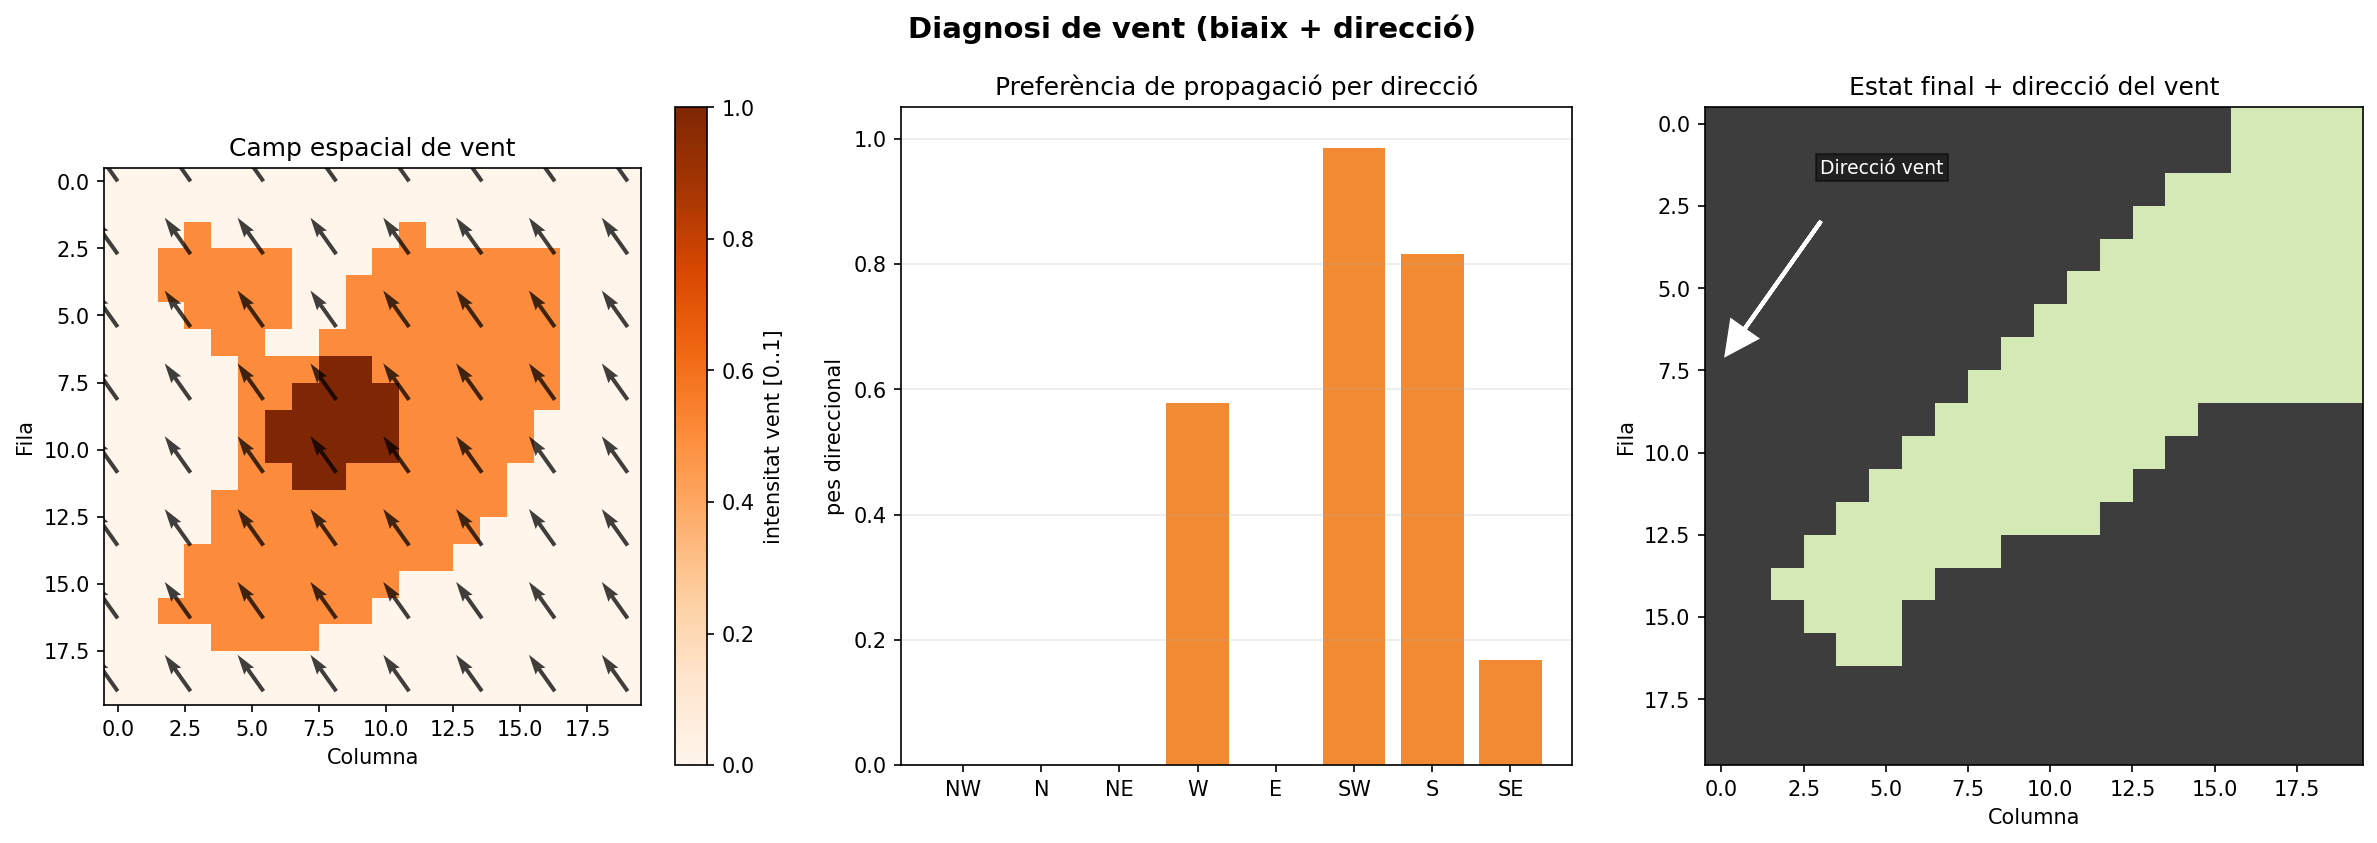
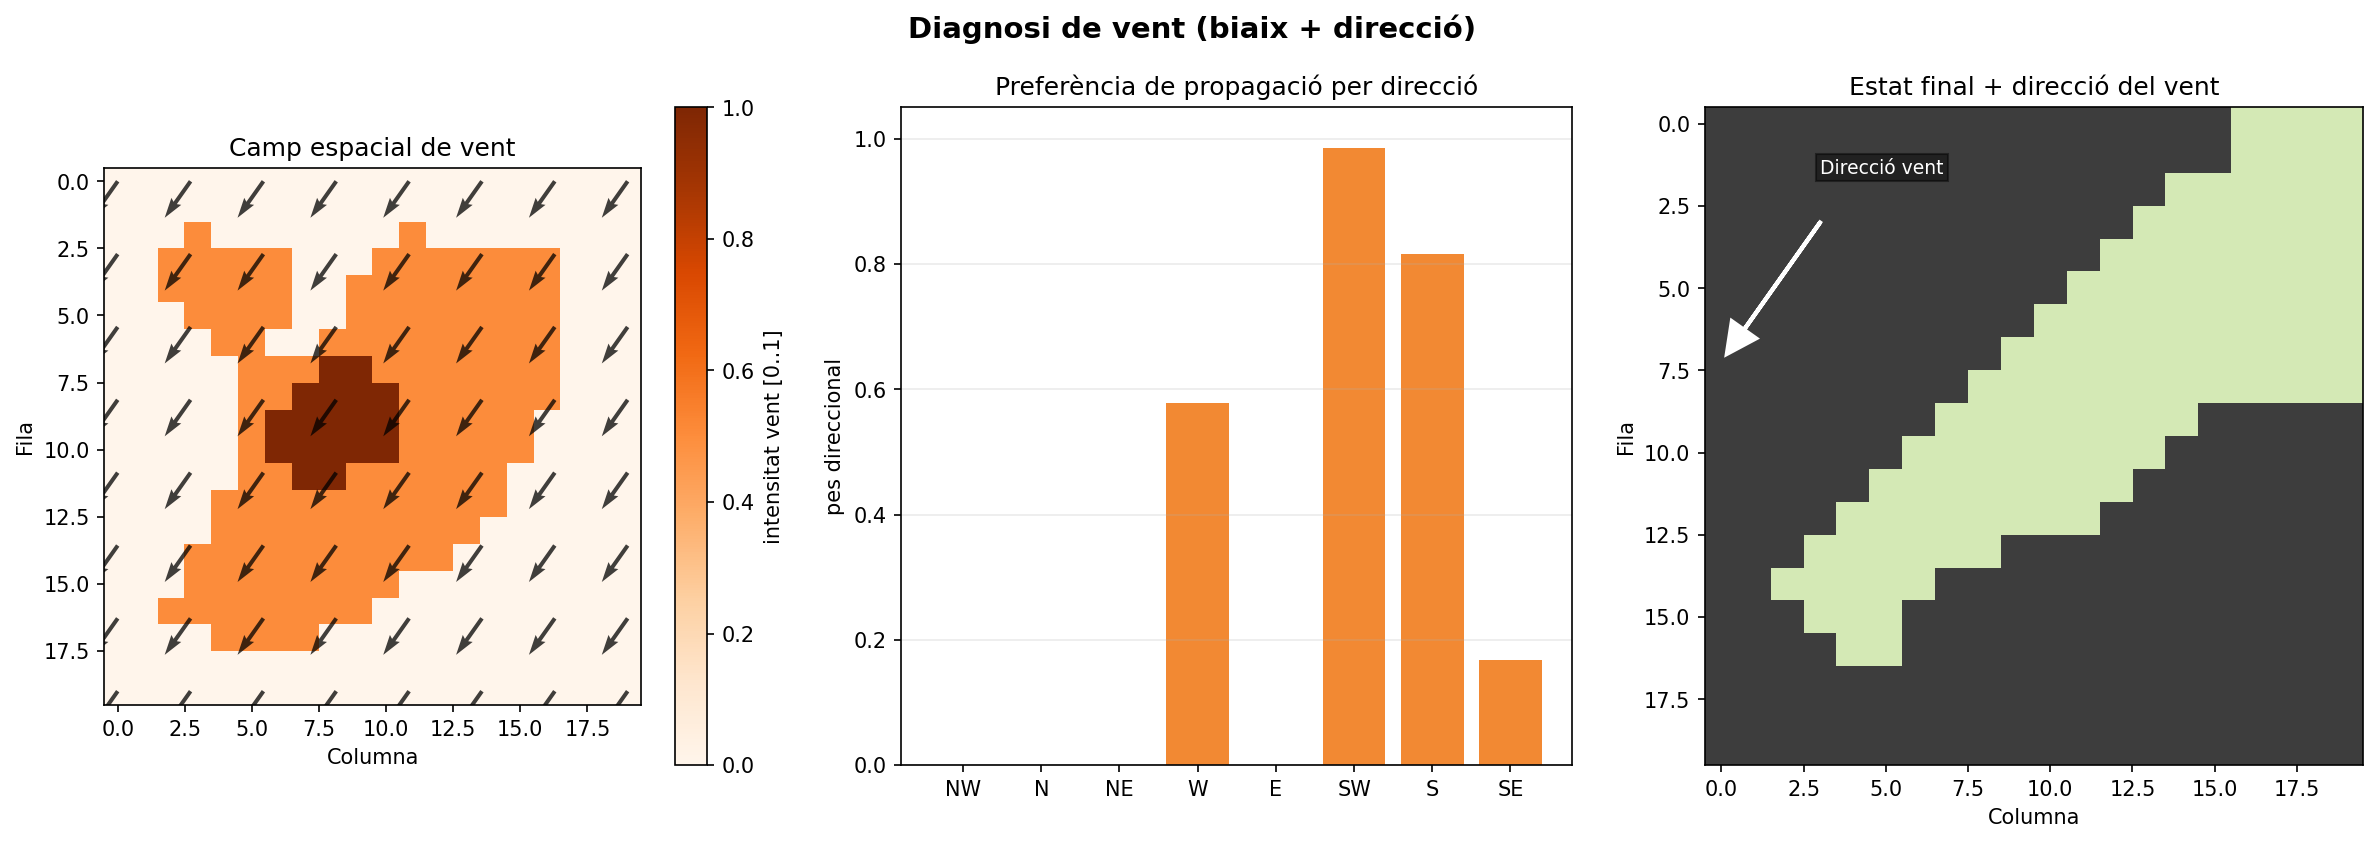
Codi Arreglat

diff --git a/PART 2/Original/codi.py b/PART 2/Original/codi.py
@@ -126,8 +126,8 @@ def coarse_grain(history: np.ndarray, k: int = 2) -> np.ndarray:
 # ─────────────────────────────────────────────
 
 def majority(bloc: list) -> int:
-    """Regla de majoria: retorna 1 si la meitat o més de les cel·les valen 1."""
-    return 1 if sum(bloc) >= len(bloc) / 2 else 0
+    """Regla de majoria: retorna 1 si més de la meitat de les cel·les valen 1."""
+    return 1 if sum(bloc) > len(bloc) / 2 else 0
 
 
 def build_coarse_rule(rule_number: int, k: int = 2) -> dict:
@@ -230,18 +230,13 @@ def plot_single_rule(rule_number: int, width: int = 101, generations: int = 50):
 
 def plot_coarse_comparison(rule_number: int, width: int = 100, generations: int = 50, k: int = 2):
     """
-    Compara l'evolució original amb la versió de gra gruixut (posteriori)
-    i la versió obtinguda directament per la regla formal.
+    Compara l'evolució original amb la versió de gra gruixut K=2.
     """
-    # 1. Original
     history = run_automaton(rule_number, width, generations)
-    # 2. Gra gruixut a posteriori
     coarse  = coarse_grain(history, k)
-    # 3. Gra gruixut amb regla formal
-    formal_coarse = run_coarse_automaton(rule_number, width, generations, k)
     
-    fig, axes = plt.subplots(1, 3, figsize=(18, 6))
-    fig.suptitle(f'Regla {rule_number}: Original vs Gruixut Posterior vs Formal (K={k})', 
+    fig, axes = plt.subplots(1, 2, figsize=(14, 6))
+    fig.suptitle(f'Regla {rule_number}: Original vs Gra Gruixut (K={k})', 
                  fontsize=14, fontweight='bold')
     
     axes[0].imshow(history, cmap='binary', interpolation='nearest', aspect='auto')
@@ -250,19 +245,14 @@ def plot_coarse_comparison(rule_number: int, width: int = 100, generations: int 
     axes[0].set_ylabel('Generació')
     
     axes[1].imshow(coarse, cmap='binary', interpolation='nearest', aspect='auto')
-    axes[1].set_title(f'Gra Gruixut a posterior ({width//k} cel·les)')
-    axes[1].set_xlabel('Supracel·la')
+    axes[1].set_title(f'Gra Gruixut K={k} ({width//k} cel·les)')
+    axes[1].set_xlabel('Cel·la (agrupada)')
     axes[1].set_ylabel('Generació')
     
-    axes[2].imshow(formal_coarse, cmap='binary', interpolation='nearest', aspect='auto')
-    axes[2].set_title(f'Regla Formal directa ({width//k} cel·les)')
-    axes[2].set_xlabel('Supracel·la')
-    axes[2].set_ylabel('Generació')
-    
     plt.tight_layout()
-    plt.savefig(os.path.join(OUTPUT_DIR, f'rule_{rule_number}_coarse_full_k{k}.png'), dpi=150, bbox_inches='tight')
+    plt.savefig(os.path.join(OUTPUT_DIR, f'rule_{rule_number}_coarse_k{k}.png'), dpi=150, bbox_inches='tight')
     plt.show()
-    print(f"[✓] Comparació completa guardada: rule_{rule_number}_coarse_full_k{k}.png")
+    print(f"[✓] Comparació guardada: rule_{rule_number}_coarse_k{k}.png")
 
 
 def plot_multiple_rules(rules: list, width: int = 101, generations: int = 40):
@@ -368,7 +358,7 @@ if __name__ == '__main__':
     print("    - rule_30.png")
     print("    - rule_110.png")
     print("    - rule_90.png")
-    print("    - rule_30_coarse_full_k2.png")
-    print("    - rule_90_coarse_full_k2.png")
+    print("    - rule_30_coarse_k2.png")
+    print("    - rule_90_coarse_k2.png")
     print("    - multiple_rules.png")
     print("    - combined_rules_30+90.png")

diff --git a/PART 2/codi.py b/PART 2/codi.py
@@ -126,8 +126,8 @@ def coarse_grain(history: np.ndarray, k: int = 2) -> np.ndarray:
 # ─────────────────────────────────────────────
 
 def majority(bloc: list) -> int:
-    """Regla de majoria: retorna 1 si més de la meitat de les cel·les valen 1."""
-    return 1 if sum(bloc) > len(bloc) / 2 else 0
+    """Regla de majoria: retorna 1 si la meitat o més de les cel·les valen 1."""
+    return 1 if sum(bloc) >= len(bloc) / 2 else 0
 
 
 def build_coarse_rule(rule_number: int, k: int = 2) -> dict:
@@ -230,13 +230,18 @@ def plot_single_rule(rule_number: int, width: int = 101, generations: int = 50):
 
 def plot_coarse_comparison(rule_number: int, width: int = 100, generations: int = 50, k: int = 2):
     """
-    Compara l'evolució original amb la versió de gra gruixut K=2.
+    Compara l'evolució original amb la versió de gra gruixut (posteriori)
+    i la versió obtinguda directament per la regla formal.
     """
+    # 1. Original
     history = run_automaton(rule_number, width, generations)
+    # 2. Gra gruixut a posteriori
     coarse  = coarse_grain(history, k)
+    # 3. Gra gruixut amb regla formal
+    formal_coarse = run_coarse_automaton(rule_number, width, generations, k)
     
-    fig, axes = plt.subplots(1, 2, figsize=(14, 6))
-    fig.suptitle(f'Regla {rule_number}: Original vs Gra Gruixut (K={k})', 
+    fig, axes = plt.subplots(1, 3, figsize=(18, 6))
+    fig.suptitle(f'Regla {rule_number}: Original vs Gruixut Posterior vs Formal (K={k})', 
                  fontsize=14, fontweight='bold')
     
     axes[0].imshow(history, cmap='binary', interpolation='nearest', aspect='auto')
@@ -245,14 +250,19 @@ def plot_coarse_comparison(rule_number: int, width: int = 100, generations: int 
     axes[0].set_ylabel('Generació')
     
     axes[1].imshow(coarse, cmap='binary', interpolation='nearest', aspect='auto')
-    axes[1].set_title(f'Gra Gruixut K={k} ({width//k} cel·les)')
-    axes[1].set_xlabel('Cel·la (agrupada)')
+    axes[1].set_title(f'Gra Gruixut a posterior ({width//k} cel·les)')
+    axes[1].set_xlabel('Supracel·la')
     axes[1].set_ylabel('Generació')
     
+    axes[2].imshow(formal_coarse, cmap='binary', interpolation='nearest', aspect='auto')
+    axes[2].set_title(f'Regla Formal directa ({width//k} cel·les)')
+    axes[2].set_xlabel('Supracel·la')
+    axes[2].set_ylabel('Generació')
+    
     plt.tight_layout()
-    plt.savefig(os.path.join(OUTPUT_DIR, f'rule_{rule_number}_coarse_k{k}.png'), dpi=150, bbox_inches='tight')
+    plt.savefig(os.path.join(OUTPUT_DIR, f'rule_{rule_number}_coarse_full_k{k}.png'), dpi=150, bbox_inches='tight')
     plt.show()
-    print(f"[✓] Comparació guardada: rule_{rule_number}_coarse_k{k}.png")
+    print(f"[✓] Comparació completa guardada: rule_{rule_number}_coarse_full_k{k}.png")
 
 
 def plot_multiple_rules(rules: list, width: int = 101, generations: int = 40):
@@ -358,7 +368,7 @@ if __name__ == '__main__':
     print("    - rule_30.png")
     print("    - rule_110.png")
     print("    - rule_90.png")
-    print("    - rule_30_coarse_k2.png")
-    print("    - rule_90_coarse_k2.png")
+    print("    - rule_30_coarse_full_k2.png")
+    print("    - rule_90_coarse_full_k2.png")
     print("    - multiple_rules.png")
     print("    - combined_rules_30+90.png")

diff --git a/PART 2/wildfire_ca_bo.py b/PART 2/wildfire_ca_bo.py
@@ -696,7 +696,7 @@ def plot_wind_diagnostics(ca: WildfireCA,
     gy = np.linspace(0, rows - 1, 8)
     xx, yy = np.meshgrid(gx, gy)
     u = np.full_like(xx, ca.wind_vector[0], dtype=float)
-    v = np.full_like(yy, ca.wind_vector[1], dtype=float)
+    v = np.full_like(yy, -ca.wind_vector[1], dtype=float) # Invertim la Y visual per quadrar amb l'eix de la imatge
     ax1.quiver(xx, yy, u, v, color='black', alpha=0.75, scale=12)
 
     # ── 2) Pes direccional per a les 8 direccions de Moore ───────────
